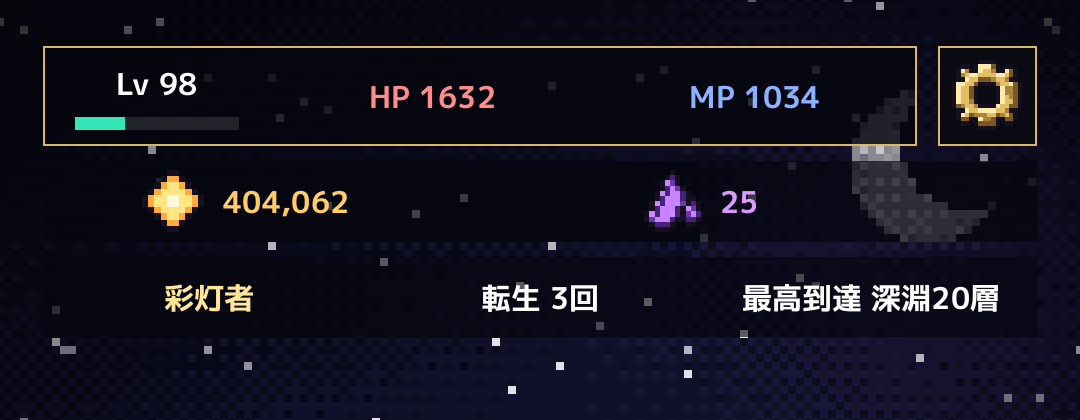
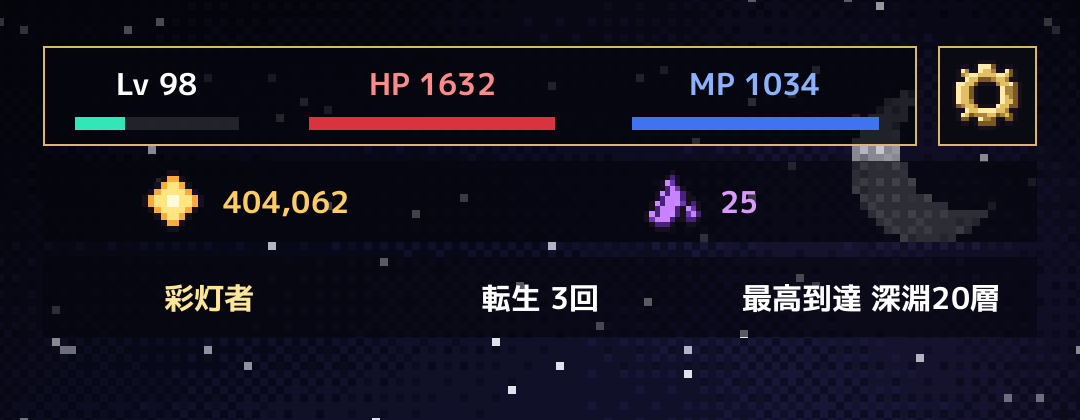
Town header: HP and MP bars under the numbers
Claude-Session: https://claude.ai/code/session_01XMEo4x59g4Ygvken3HiQNb

Changed region(s): [[0.275, 0.1548, 0.5194, 0.3095], [0.5806, 0.1548, 0.825, 0.3095]]

diff --git a/Game/Assets/Scripts/UI/TownScreen.cs b/Game/Assets/Scripts/UI/TownScreen.cs
@@ -133,10 +133,18 @@ namespace VividOfFade
                 var bar = new Rect(row1.x + lvW * 0.14f, row1.y + row1.height * 0.72f, lvW * 0.72f, row1.height * 0.12f);
                 Hud.Fill(bar, new Color(1f, 1f, 1f, 0.12f));
                 Hud.Fill(new Rect(bar.x, bar.y, bar.width * Mathf.Clamp01(need > 0 ? (float)ch.Exp / need : 0f), bar.height), new Color(0.2f, 0.9f, 0.72f, 1f));
-                cell.normal.textColor = new Color(1f, 0.55f, 0.55f);
-                Hud.FitLabel(new Rect(row1.x + lvW, row1.y, hw, row1.height), st != null ? $"HP {st.MaxHp}" : "HP", cell);
-                cell.normal.textColor = new Color(0.55f, 0.7f, 1f);
-                Hud.FitLabel(new Rect(row1.x + lvW + hw, row1.y, hw, row1.height), st != null ? $"MP {st.MaxMp}" : "MP", cell);
+                // HP・MP：数字の下にバー（町では満タン）
+                for (int k = 0; k < 2; k++)
+                {
+                    bool hpRow = k == 0;
+                    float x0 = row1.x + lvW + hw * k;
+                    cell.normal.textColor = hpRow ? new Color(1f, 0.55f, 0.55f) : new Color(0.55f, 0.7f, 1f);
+                    Hud.FitLabel(new Rect(x0, row1.y, hw, row1.height * 0.74f), st != null ? (hpRow ? $"HP {st.MaxHp}" : $"MP {st.MaxMp}") : (hpRow ? "HP" : "MP"), cell);
+                    var hb = new Rect(x0 + hw * 0.12f, row1.y + row1.height * 0.72f, hw * 0.76f, row1.height * 0.12f);
+                    Hud.Fill(hb, new Color(1f, 1f, 1f, 0.12f));
+                    Hud.Fill(hb, hpRow ? new Color(0.85f, 0.2f, 0.25f, 1f) : new Color(0.25f, 0.45f, 0.95f, 1f));
+                    Hud.Fill(new Rect(hb.x, hb.y, hb.width, hb.height * 0.35f), new Color(1f, 1f, 1f, 0.25f)); // 光沢
+                }
                 for (int k = 0; k < 2; k++) Hud.Fill(new Rect(row1.x + lvW + hw * k, row1.y + row1.height * 0.2f, 1f, row1.height * 0.6f), new Color(0.85f, 0.72f, 0.42f, 0.4f));
             }
 
